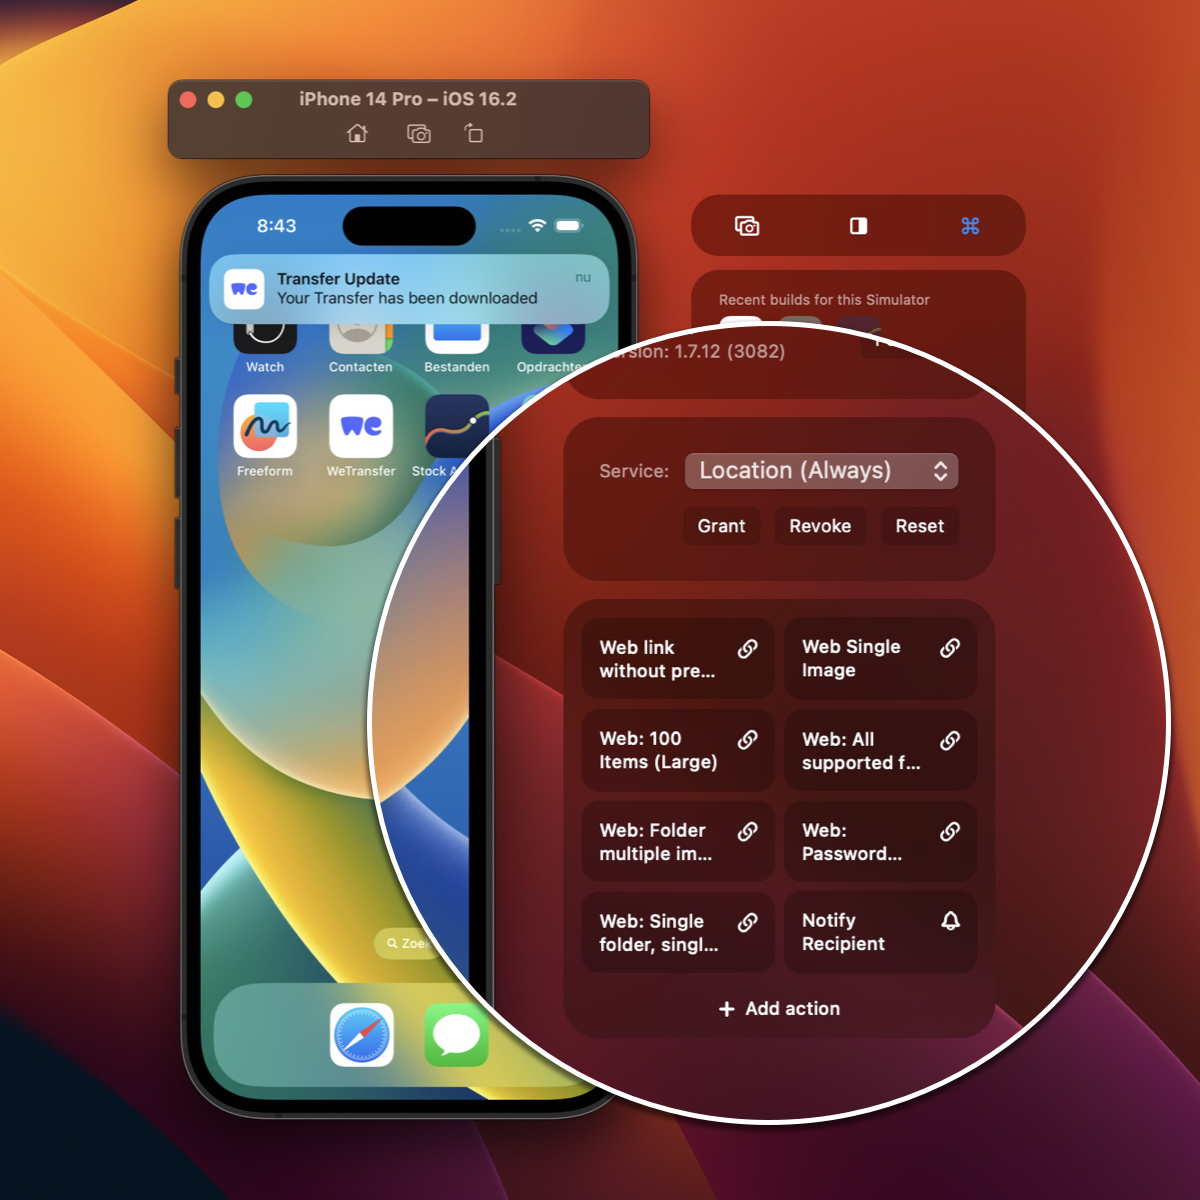
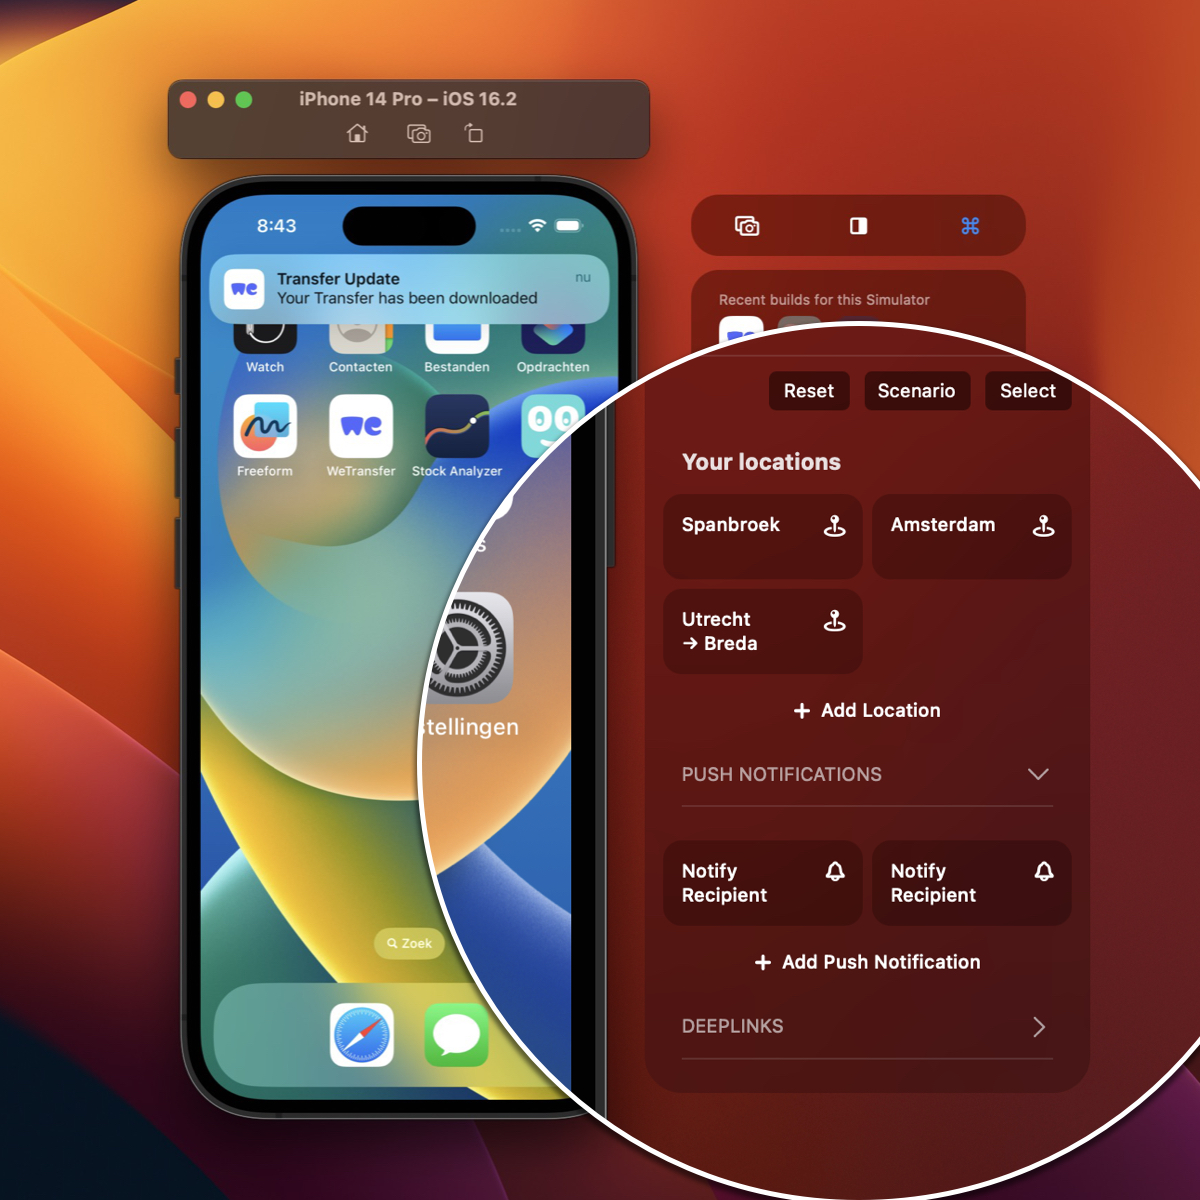
Update website for RocketSim 10.0

Changed region(s): [[0.2775, 0.2467, 1.0, 1.0]]

diff --git a/docs/index.html b/docs/index.html
@@ -188,7 +188,7 @@
                         <p class="gray-text"><span class="text-headline">Configurable actions</span> for Deeplinks (Universal Links) and Push Notifications. Control permissions.</p>
                         <ul class="gray-text">
                             <li><span class="text-headline">Bundle Identifier based:</span> actions automatically show up for recent builds</li>
-                            <li>Quickly test <span class="text-headline">Deeplinks & Push Notifications</span></li>
+                            <li>Quickly test <span class="text-headline">Locations, Push Notifications, and Deeplinks</span></li>
                             <li><span class="text-headline">Grant, revoke, or reset permissions</span> like photo and location access, allowing you to quicker test related implementations</li>
                         </ul>
                     </span>
@@ -196,6 +196,19 @@
                 <div class="col-md-6 wow fadeInUp">
                     <img src="Assets/quick_actions.jpg" />
                 </div>
+            </div>
+        </div>
+
+        <!--Location Simulation-->
+        <div class="container feature-section" id="location-simulation">
+            <div class="row">
+                <div class="row section-descwow fadeIn">
+                    <h2 class="section-headline gray-text">Location Simulation</h2>
+                    <div class="section-headline section-headline-elevated">Single locations or automobile and walking routes: Test them right in the Simulator.</div>
+                </div>
+            </div>
+            <div class="row wow fadeInUp">
+                <img src="Assets/location_routes.jpg" />
             </div>
         </div>
 

diff --git a/docs/style.css b/docs/style.css
@@ -344,6 +344,13 @@ video {
 	border-radius: 20px;
 }
 
+/* Location Simulation */
+#location-simulation img {
+	border-radius: 20px;
+	margin: 0 auto;
+	margin-top: 3rem;
+}
+
 /* Recording touches */
 #recording-touches img {
 	width: 100%;
